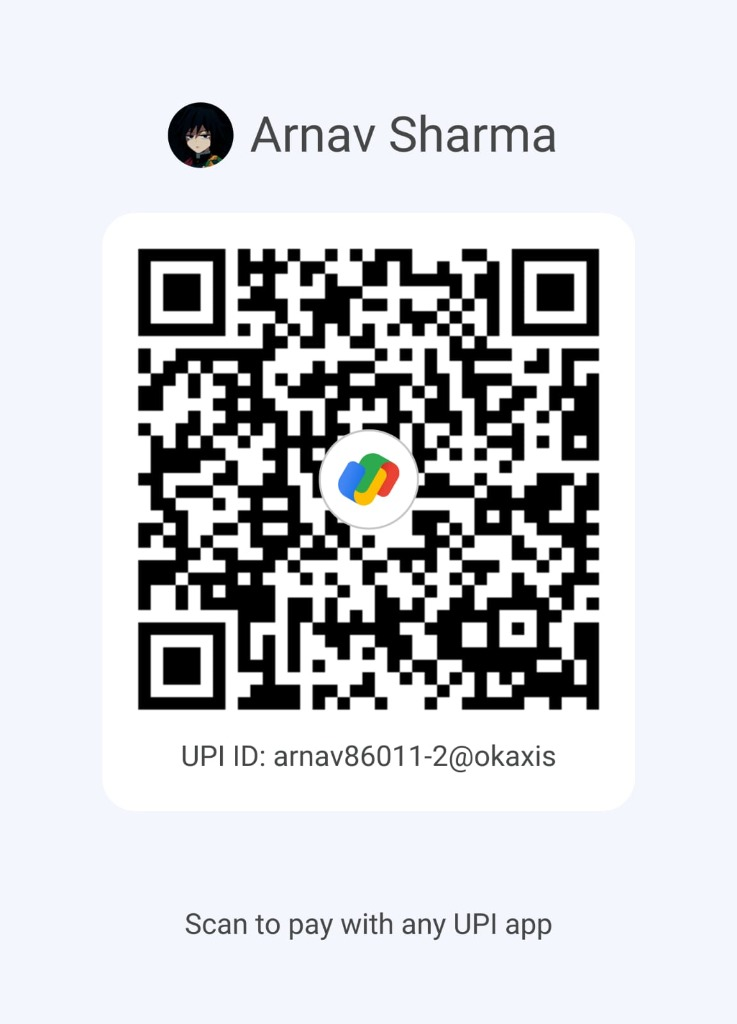
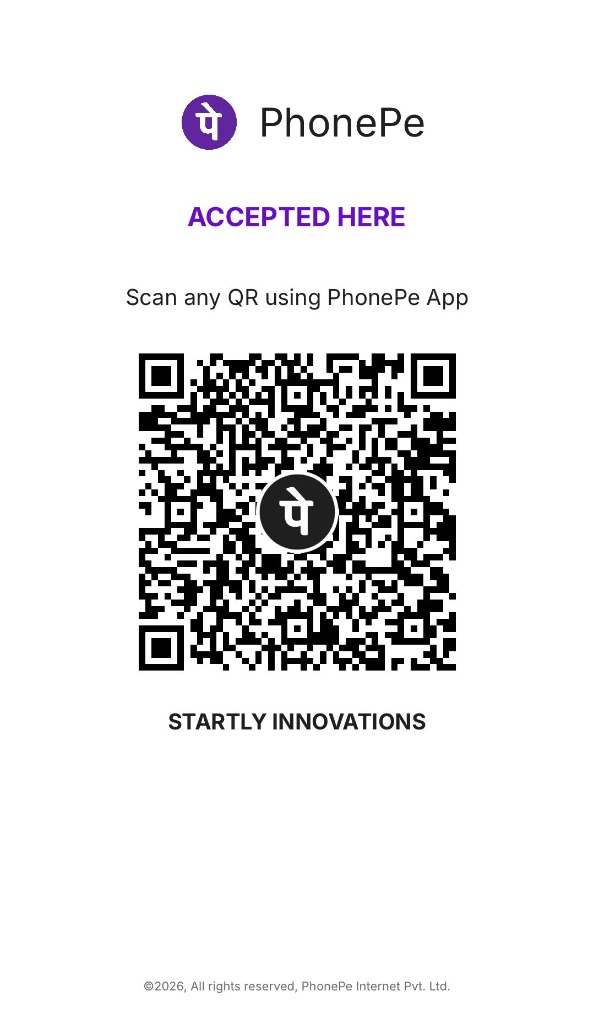
fix: PhonePe QR (Startly Innovations), strict email validation, email field UX improvements

diff --git a/src/components/registration/RegistrationForm.tsx b/src/components/registration/RegistrationForm.tsx
@@ -436,9 +436,19 @@ export function RegistrationForm({ eventSlug }: RegistrationFormProps) {
                     <Input
                       label="Email Address (All updates & guidelines sent here)"
                       type="email"
+                      inputMode="email"
+                      autoComplete="email"
+                      autoCapitalize="none"
+                      autoCorrect="off"
+                      spellCheck={false}
                       {...register("email")}
+                      onBlur={(e) => {
+                        // Trim & lowercase on blur before validation fires
+                        const cleaned = e.target.value.trim().toLowerCase();
+                        setValue("email", cleaned, { shouldValidate: true });
+                      }}
                       error={errors.email?.message}
-                      placeholder="rahul@example.com"
+                      placeholder="yourname@gmail.com"
                     />
                     <div className="grid sm:grid-cols-2 gap-4">
                       <Input
@@ -660,24 +670,24 @@ export function RegistrationForm({ eventSlug }: RegistrationFormProps) {
                     <PaymentPricingBanner />
 
                     <div className="border-2 border-white/15 bg-[#0b0714] p-6 text-center space-y-4 shadow-[4px_4px_0px_0px_#000000]">
-                      <div className="mx-auto w-48 h-48 border-2 border-white/20 bg-white p-3 shadow-[3px_3px_0px_0px_#000000] flex items-center justify-center">
+                      <div className="mx-auto w-56 h-56 border-2 border-white/20 bg-white p-2 shadow-[3px_3px_0px_0px_#000000] flex items-center justify-center">
                         {/* eslint-disable-next-line @next/next/no-img-element */}
                         <img
                           src="/upi-qr.png"
-                          alt="Athena Summit UPI payment QR code"
+                          alt="Athena Summit UPI payment QR code — PhonePe"
                           className="w-full h-full object-contain"
                         />
                       </div>
 
                       <div className="space-y-1">
                         <p className="text-sm font-medium text-cream">
-                          Official UPI ID:{" "}
+                          Pay via PhonePe to{" "}
                           <span className="text-gold font-mono font-bold">
-                            arnav86011-2@okaxis
+                            Startly Innovations
                           </span>
                         </p>
                         <p className="text-xs text-cream/50">
-                          Accepted via Google Pay, PhonePe, Paytm, BHIM, and all UPI apps
+                          Scan QR using PhonePe · also accepted via Google Pay, Paytm, BHIM &amp; all UPI apps
                         </p>
                       </div>
                     </div>

diff --git a/src/lib/validations.ts b/src/lib/validations.ts
@@ -6,7 +6,19 @@ export const personalInfoSchema = z.object({
     .string()
     .min(10, "Enter a valid WhatsApp number")
     .regex(/^[\d\s+\-()]+$/, "Enter a valid phone number"),
-  email: z.string().email("Enter a valid email address"),
+  email: z
+    .string()
+    .min(1, "Email address is required")
+    .email("Enter a valid email address (e.g. name@gmail.com)")
+    .regex(
+      /^[a-zA-Z0-9._%+\-]+@[a-zA-Z0-9.\-]+\.[a-zA-Z]{2,}$/,
+      "Enter a valid email — check for typos"
+    )
+    .refine(
+      (val) => !val.includes("..") && !val.startsWith(".") && !val.endsWith("."),
+      "Email address has an invalid format"
+    )
+    .transform((val) => val.trim().toLowerCase()),
   classYear: z.string().min(1, "Class/Year is required"),
   institution: z.string().min(2, "Institution name is required"),
 });
